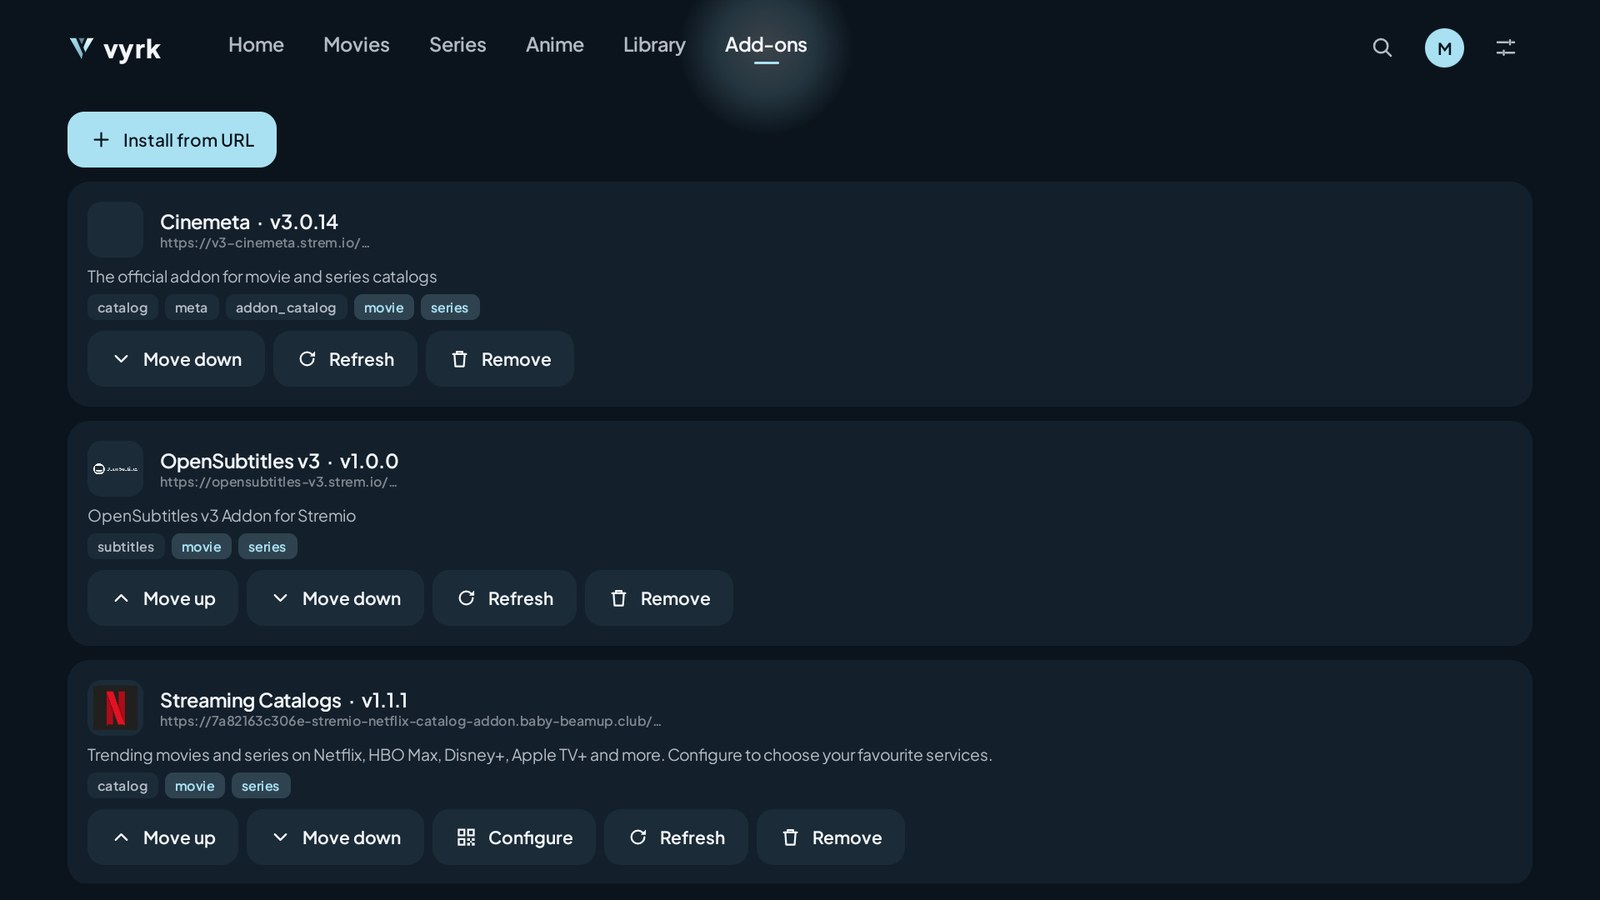
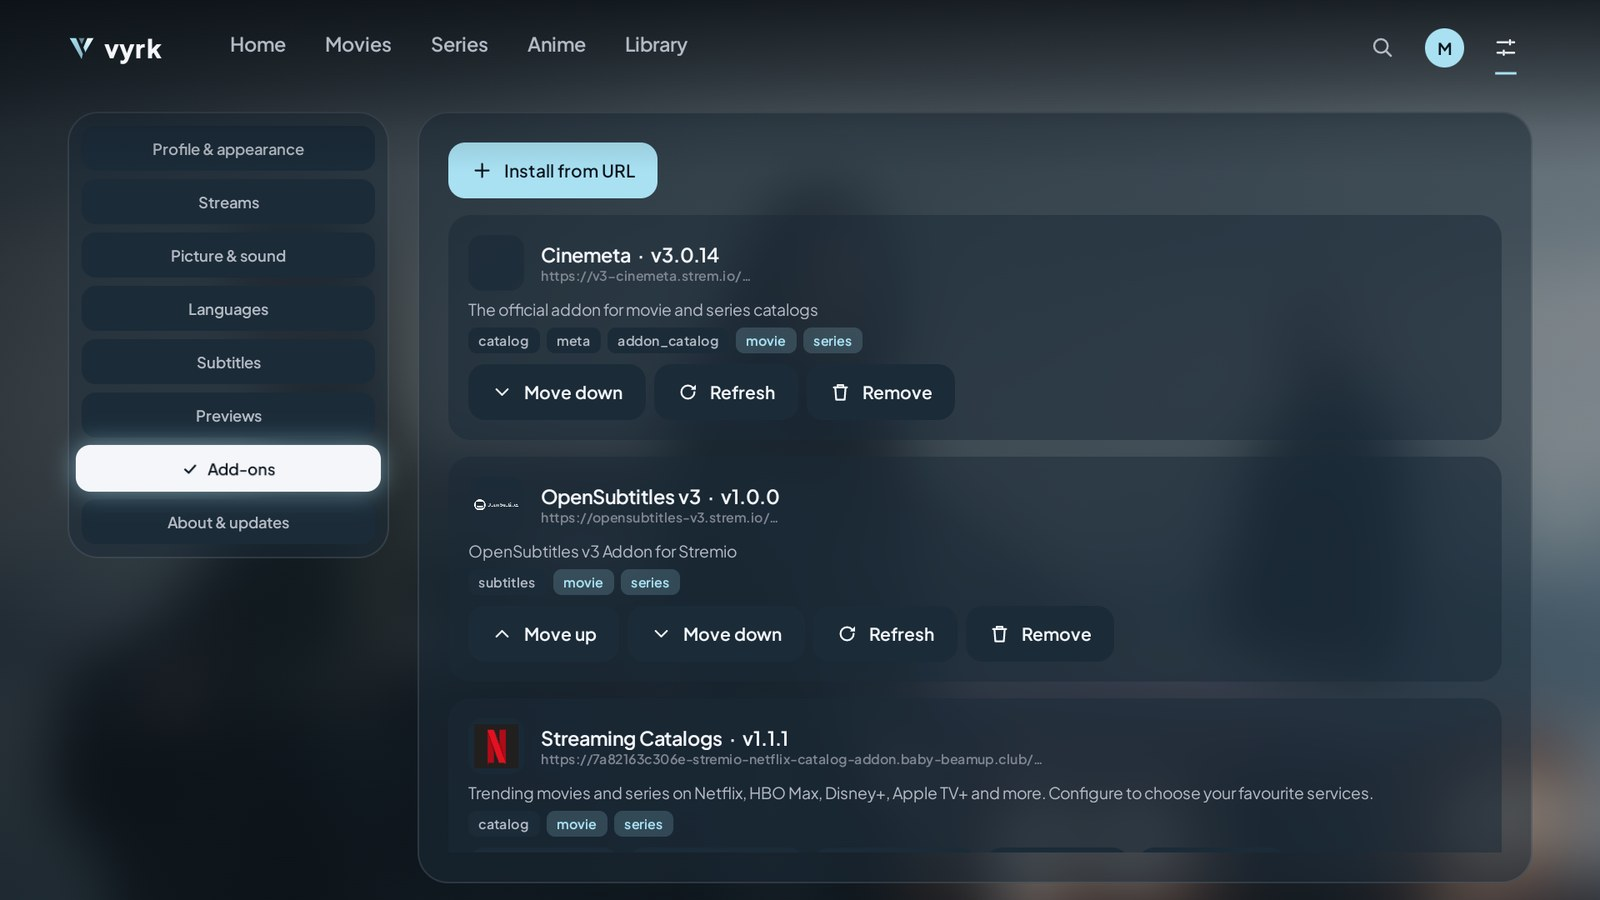
Release v0.1.1: changelog section and new Add-ons and Settings screenshots
Screenshots are the CI showcase captures of b31eb8a (run 41928069408).

diff --git a/README.md b/README.md
@@ -24,7 +24,7 @@ VYRK is a free, open-source Android TV client for Stremio add-ons. Sign in to yo
 | ![Home](docs/images/screenshots/home.jpg)<br>**Home** — featured hero with live artwork and credits | ![Top 10](docs/images/screenshots/top10-rows.jpg)<br>**Top 10 rows** — ranked per service, with the title header and a muted trailer | ![Info page](docs/images/screenshots/info-page.jpg)<br>**Info page** — details and ranked sources side by side |
 | ![Series](docs/images/screenshots/series-info.jpg)<br>**Series** — season guide with stills, air dates and watched state | ![Player](docs/images/screenshots/player.jpg)<br>**Player** — elapsed, remaining and "Ends at" | ![Audio & subtitles](docs/images/screenshots/audio-subtitles.jpg)<br>**Audio & subtitles** — languages as names, flags as a supplement |
 | ![Search](docs/images/screenshots/search.jpg)<br>**Search** — on-screen keyboard, results per type | ![Library](docs/images/screenshots/library.jpg)<br>**Library** — filters, sorts and progress | ![Top 10 suggestion](docs/images/screenshots/top10-suggestion.jpg)<br>**Top 10 suggestion** — one press adds the rows |
-| ![Add-ons](docs/images/screenshots/addons.jpg)<br>**Settings › Add-ons** — reorder, configure by QR, redacted URLs | ![Settings](docs/images/screenshots/settings.jpg)<br>**Settings** — source choice and stream limits | ![Profiles](docs/images/screenshots/profiles.jpg)<br>**Profiles** — up to five, each with its own add-ons and PIN |
+| ![Add-ons](docs/images/screenshots/addons.jpg)<br>**Settings › Add-ons** — reorder, configure by QR, redacted URLs | ![Settings](docs/images/screenshots/settings.jpg)<br>**Settings** — on glass over blurred artwork; source choice and stream limits | ![Profiles](docs/images/screenshots/profiles.jpg)<br>**Profiles** — up to five, each with its own add-ons and PIN |
 | ![First run](docs/images/screenshots/first-run.jpg)<br>**First run** — sign in by QR or start without an account | | |
 
 Screenshots are captures of the real app on an Android TV emulator with live catalogues, made by [`ci/showcase.sh`](ci/showcase.sh). Big Buck Bunny © Blender Foundation, [CC BY 3.0](https://creativecommons.org/licenses/by/3.0/). Posters, logos and artwork belong to their owners and come from the installed add-ons.

diff --git a/CHANGELOG.md b/CHANGELOG.md
@@ -2,7 +2,7 @@
 
 All user-visible changes. Versions follow `vX.Y.Z` tags.
 
-## Unreleased
+## v0.1.1
 
 - Add-ons moved from the top bar into Settings › Add-ons, with the profile sharing switches.
 - Settings is translucent: its panels sit over the artwork you were last looking at, blurred.
